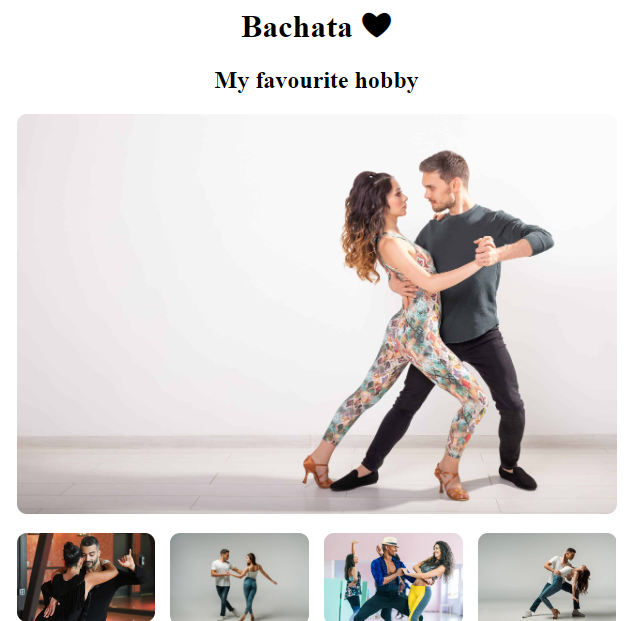
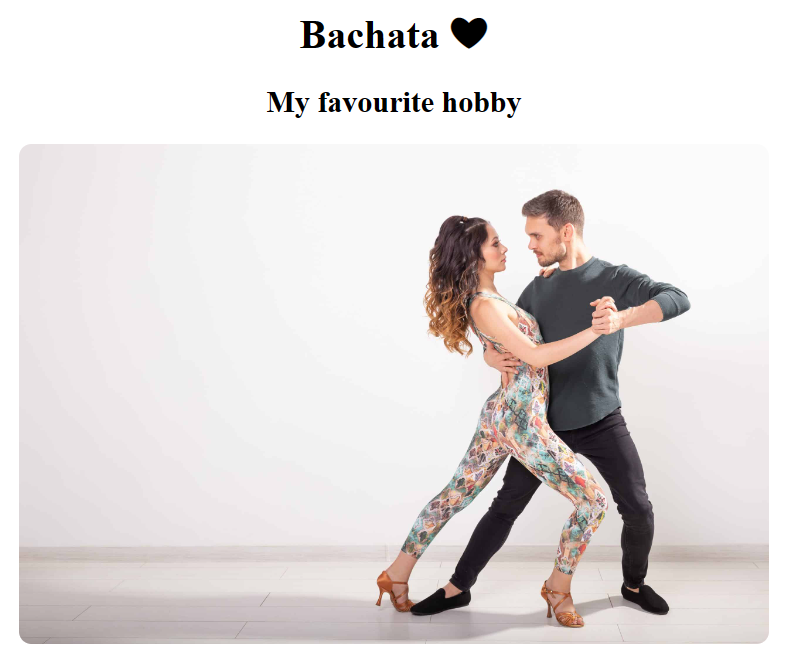
Addling links and Responsive

diff --git a/index.html b/index.html
@@ -30,7 +30,7 @@
   <div class="container">
       <div class="row mb-5">
         <div class="col d-none d-lg-block">
-          <img src="images/bachatasensual.png" class="img-fluid" alt="">
+          <img src="images/bachatasensual.png" class="img-fluid" alt="bachataFestival">
         </div>
         <div class="col">
           <div class="project-description">
@@ -38,7 +38,7 @@
             <p class="mb-5">
               Bachata Festival website was the first one I ever created.
             </p>
-            <a href="" class="btn btn-branding-outline"> Learn more </a>
+            <a href="https://www.shecodes.io/workshops/shecodes-basics-bf12ed84-59b9-4385-9c2d-a9cfb32f9968/projects/580927" class="btn btn-branding-outline" title="bachataFestival" > Learn more </a>
           </div>
         </div>
       </div>
@@ -49,16 +49,16 @@
             <p class="mb-5">
               This is a more advanced website, where I used some grids.
             </p>
-            <a href="" class="btn btn-branding-outline"> Learn more </a>
+            <a href="https://s3.amazonaws.com/shecodesio-production/challenge_submissions/files/001/435/509/original/Bachata.html?1675342365" class="btn btn-branding-outline" title="bachata"> Learn more </a>
           </div>
         </div>
          <div class="col d-none d-lg-block">
-          <img src="images/bachata.png" class="img-fluid" alt="">
+          <img src="images/bachata.png" class="img-fluid" alt="bachataDance">
         </div>
       </div>
       <div class="row mb-5">
         <div class="col d-none d-lg-block">
-          <img src="images/weatherpride.png" class="img-fluid" alt="">
+          <img src="images/weatherpride.png" class="img-fluid" alt="weatherApp">
         </div>
         <div class="col">
           <div class="project-description">
@@ -66,7 +66,7 @@
             <p class="mb-5">
               This amazing app is showing the weather in every city in the world.
             </p>
-            <a href="" class="btn btn-branding-outline"> Learn more </a>
+            <a href="https://prideweatherapp.netlify.app" class="btn btn-branding-outline" title="weatherApp"> Learn more </a>
           </div>
         </div>
       </div>
@@ -77,11 +77,11 @@
             <p class="mb-5">
               This app can check the hour in every city in the world.
             </p>
-            <a href="" class="btn btn-branding-outline"> Learn more </a>
+            <a href="https://worldclockpaulinaprassolbraz.netlify.app" class="btn btn-branding-outline" title="world-clock"> Learn more </a>
           </div>
         </div>
          <div class="col d-none d-lg-block">
-          <img src="images/worldclock.png" class="img-fluid" alt="">
+          <img src="images/worldclock.png" class="img-fluid" alt="world-clock">
         </div>
       </div>
     </div>

diff --git a/css/style.css b/css/style.css
@@ -3,7 +3,6 @@
   --branding-color: #cec8c8;
   --secondary-color: #8f8787;
 }
-
 h1,
 h2,
 h3 {
@@ -61,7 +60,9 @@ img {
   border-radius: 10px;
   color: black;
   font-family: var(--main-font);
-  font-weight: bold;
+  border: 1px solid black;
+  opacity: 0.7;
+  font-weight: 400;
   font-size: 18px;
   line-height: 26px;
   padding: 15px 30px;
@@ -73,6 +74,7 @@ img {
   font-size: 18px;
   line-height: 27px;
   padding: 15px 30px;
+  font-weight: 400;
 }
 .project-description {
   text-align: center;
@@ -81,4 +83,19 @@ img {
   max-width: 100%;
   height: auto;
   border-radius: 15px;
+}
+
+@media (max-width: 900px) {
+  h1 {
+    font-size: 52px;
+  }
+  h2 {
+    font-size: 32px;
+  }
+  h3 {
+    font-size: 24px;
+  }
+  p {
+    font-weight: bolder;
+  }
 }
